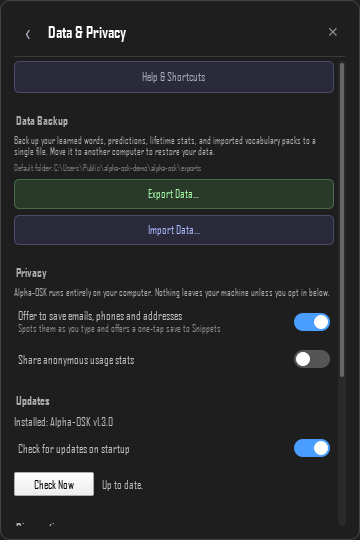
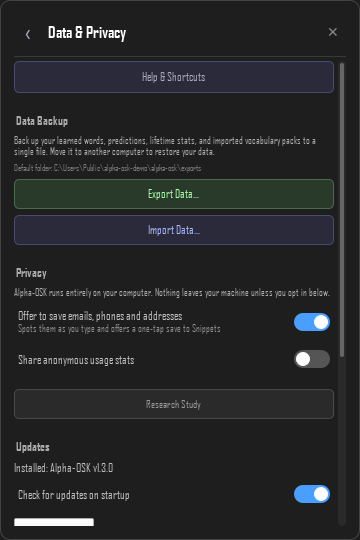
docs: refresh the screenshots, and name the privacy toggle correctly (#93)
* docs: refresh the screenshots against the current UI

The committed shots were generated at 4ec7fb3, and two commits since then
have touched qml/. Regenerated with scripts/capture_screenshots.py: the
compact view and the Data & Privacy panel had both moved.

Data & Privacy gained the research study row, which its alt text and its
caption did not mention, so both now describe what the image shows.

* docs: name the privacy toggle what the app calls it, not "autofill"

The Data & Privacy caption and alt text described the screenshot as showing
"opt-in autofill". Alpha-OSK has no autofill: the word appears nowhere in
qml/ or src/, and the toggle in that screenshot reads "Offer to save emails,
phones and addresses". Autofill means the opposite direction, filling a form
in for you, which is a capability claim rather than a wording preference and
the wrong one to make on a privacy caption.

Also corrects the compact screenshot's declared width from 810 to its actual
808, so it is no longer upscaled two pixels. That one predates this branch.

diff --git a/README.md b/README.md
@@ -112,7 +112,7 @@ That covers ~90% of day-to-day use. The rest of this README and the [white paper
 
 *Amethyst theme. Nine themes ship in total: Dark, Light, Ocean, Forest, Amethyst, Vaporwave, Blackboard, Typewriter, Spaceship.*
 
-<img src="assets/screenshots/compact-view-keyboard.png" alt="Alpha-OSK in Compact View: a 13x4 grid with a number row, function row, and navigation column" width="810" />
+<img src="assets/screenshots/compact-view-keyboard.png" alt="Alpha-OSK in Compact View: a 13x4 grid with a number row, function row, and navigation column" width="808" />
 
 *Compact View: a denser 13x4 grid for small screens, with digits on their own panel and symbols one tap away on `?123`. The editing keys are accent-tinted because a uniform grid gives no size cue to find them by.*
 
@@ -123,8 +123,8 @@ That covers ~90% of day-to-day use. The rest of this README and the [white paper
 <br /><em>Appearance: Compact View plus the function row, extra function row, navigation, and numpad panel toggles; pick QWERTY / Dvorak / Colemak; pick a theme; adjust opacity.</em>
 </td>
 <td width="50%" align="center">
-<img src="assets/screenshots/settings-data-privacy.png" alt="Data and Privacy settings: data backup export and import, telemetry opt-in, auto-update toggle" width="100%" />
-<br /><em>Data & Privacy: one-click export and import of your model, lifetime stats, and vocabulary packs; opt-in anonymous telemetry; auto-update.</em>
+<img src="assets/screenshots/settings-data-privacy.png" alt="Data and Privacy settings: data backup export and import, opt-ins for saving detected emails and phone numbers and for anonymous telemetry, research study invitation, auto-update toggle" width="100%" />
+<br /><em>Data & Privacy: one-click export and import of your model, lifetime stats, and vocabulary packs; opt-in saving of emails, phones and addresses you type, and opt-in anonymous telemetry; an invitation to the research study; auto-update.</em>
 </td>
 </tr>
 <tr>
